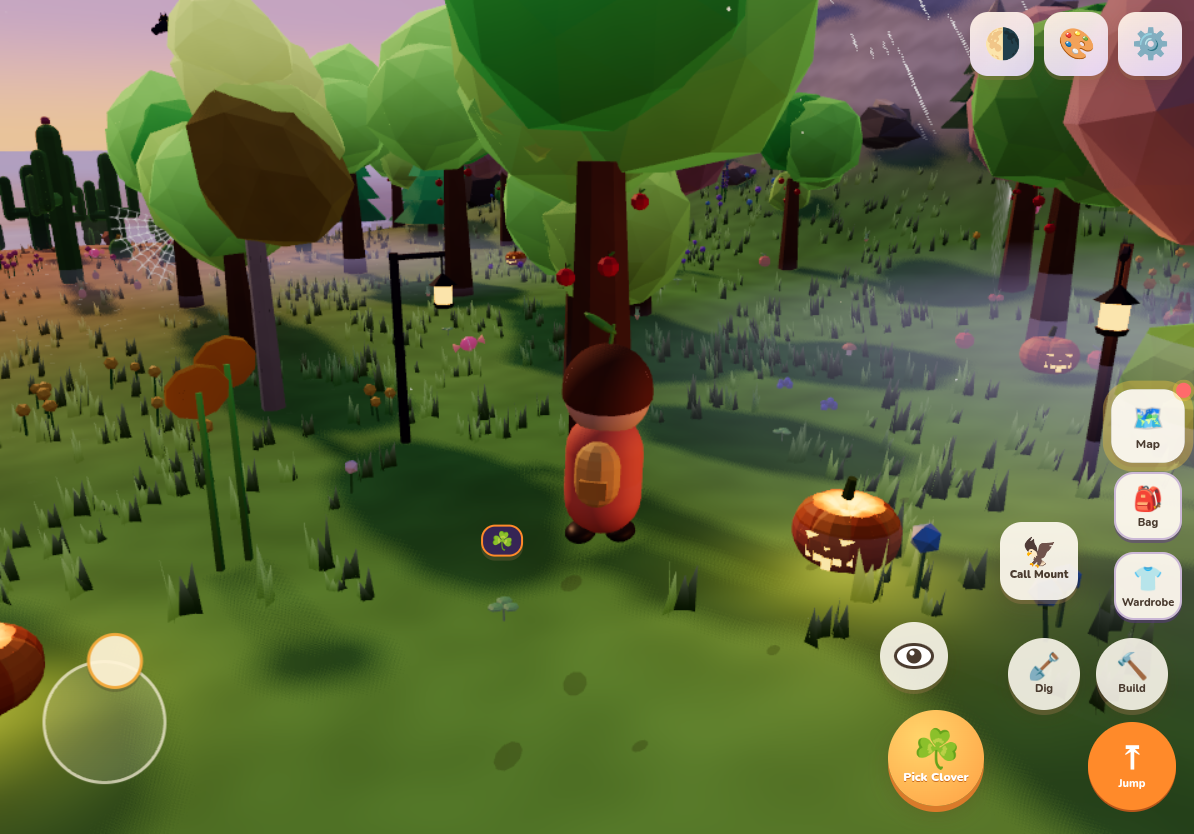
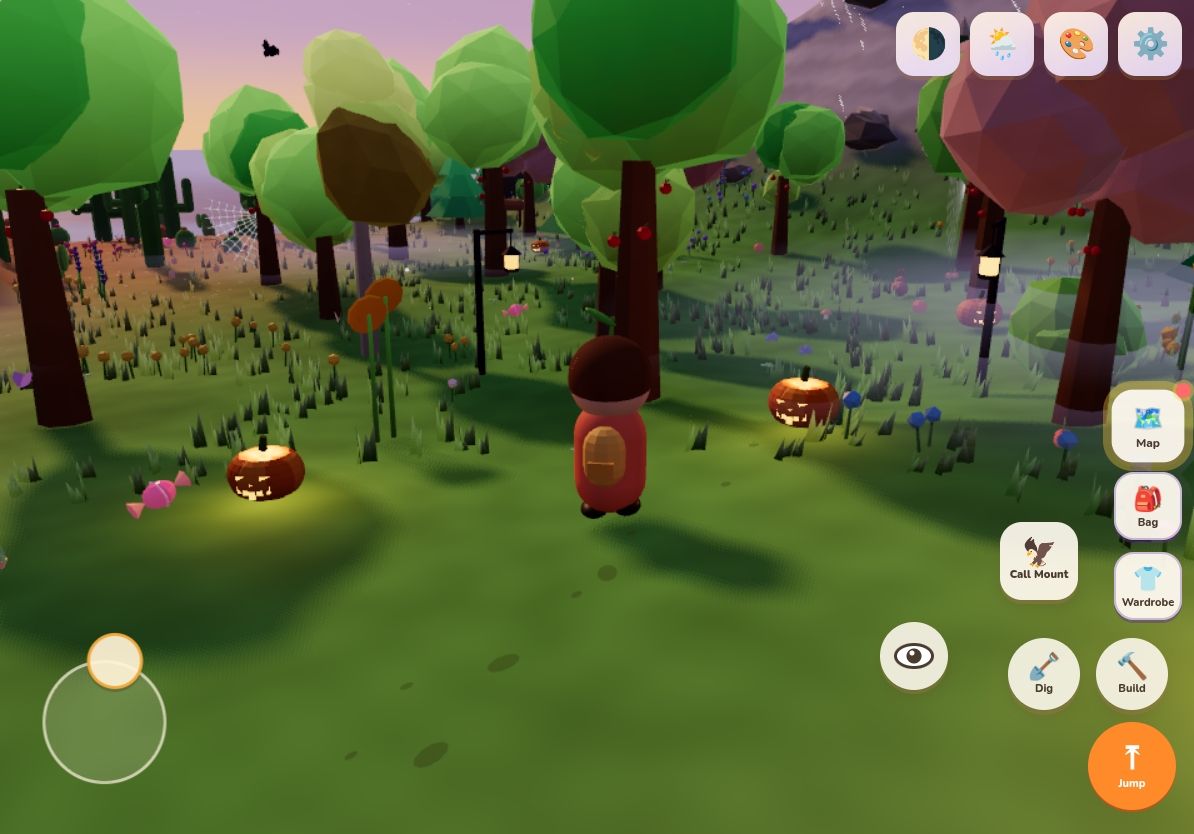
Order 50f: 🌦 weather dock button (Live/Clear/Rain/Snow/Rainbow, real-tap tested, button showers ease in 3x faster); tests/weather.mjs 21/21, iPad touch 24/24

diff --git a/src/world/Weather.ts b/src/world/Weather.ts
@@ -13,7 +13,7 @@ export class Weather {
   /** 0..1 eased strength of the current shower */
   amount = 0;
   frozen = false;
-  source: 'cycle' | 'url' = 'cycle';
+  source: 'cycle' | 'url' | 'button' = 'cycle';
   /** theme makes showers fall as snow (winter) */
   snowy = false;
   /** what the current/last shower falls as (kept while it clears, so snow fades out as snow) */
@@ -36,6 +36,16 @@ export class Weather {
   private syncFall() { if (this.kind !== 'clear') this.fall = this.kind === 'snow' || this.snowy ? 'snow' : 'rain'; }
   /** pin a kind (freeze) or let the cycle run again */
   set(kind: WeatherKind, freeze = true, snap = false) { if (this.kind !== 'clear' && kind === 'clear') this.cleared(); this.kind = kind; this.frozen = freeze; if (snap) this.amount = kind === 'clear' ? 0 : 1; if (!freeze) this.source = 'cycle'; this.syncFall(); }
+  /** Order 50f: 🌦 dock button. Pin clear/rain/snow/rainbow (eases in ~3x faster so a tap shows quickly), or 'live' to hand back to the cycle */
+  pin(mode: WeatherKind | 'rainbow' | 'live') {
+    if (mode === 'live') { this.frozen = false; this.source = 'cycle'; this.left = this.kind === 'clear' ? 60 + this.rnd() * 60 : 60; if (this.bowLeft === Infinity) this.bowLeft = 20; return; }
+    if (this.bowLeft === Infinity) this.bowLeft = 0;
+    if (mode === 'rainbow') { this.set('clear', true); this.bowLeft = Infinity; }
+    else this.set(mode, true);
+    this.source = 'button';
+  }
+  /** which button step matches the current state */
+  get mode(): WeatherKind | 'rainbow' | 'live' { return !this.frozen ? 'live' : this.bowLeft === Infinity ? 'rainbow' : this.kind; }
   update(dt: number) {
     if (!this.frozen) {
       this.left -= dt;
@@ -51,10 +61,10 @@ export class Weather {
     // the rainbow shows once the shower has mostly thinned, then fades before its window ends
     this.bowLeft -= dt;
     const bowT = this.bowLeft > 8 && this.kind === 'clear' && this.amount < 0.55 ? 1 : 0;
-    this.bowK += Math.sign(bowT - this.bowK) * Math.min(Math.abs(bowT - this.bowK), dt / 8);
+    this.bowK += Math.sign(bowT - this.bowK) * Math.min(Math.abs(bowT - this.bowK), dt / (this.source === 'button' ? 3 : 8));
     const target = this.kind === 'clear' ? 0 : 1;
     // ~12 s to build up, ~16 s to clear
-    const rate = target > this.amount ? 1 / 12 : 1 / 16;
+    const rate = (target > this.amount ? 1 / 12 : 1 / 16) * (this.source === 'button' ? 3 : 1);
     this.amount += Math.sign(target - this.amount) * Math.min(Math.abs(target - this.amount), rate * dt);
   }
   /** a rain (not snow) shower just started clearing: open the rainbow window */
@@ -63,5 +73,5 @@ export class Weather {
   get isSnow() { return this.fall === 'snow'; }
   get rain() { return this.isSnow ? 0 : this.amount; }
   get snow() { return this.isSnow ? this.amount : 0; }
-  get debug() { return { kind: this.kind, amount: +this.amount.toFixed(3), rain: +this.rain.toFixed(3), snow: +this.snow.toFixed(3), frozen: this.frozen, source: this.source, snowy: this.snowy, left: Math.round(this.left), bowK: +this.bowK.toFixed(3), bowLeft: Math.round(Math.min(this.bowLeft, 9999)) }; }
+  get debug() { return { kind: this.kind, amount: +this.amount.toFixed(3), rain: +this.rain.toFixed(3), snow: +this.snow.toFixed(3), mode: this.mode, frozen: this.frozen, source: this.source, snowy: this.snowy, left: Math.round(this.left), bowK: +this.bowK.toFixed(3), bowLeft: Math.round(Math.min(this.bowLeft, 9999)) }; }
 }

diff --git a/src/ui/Hud.ts b/src/ui/Hud.ts
@@ -6,6 +6,7 @@ import { BUILD_CATALOG, tabOf, type BuildTab } from '../build/catalog';
 import type { Quality } from '../render/Renderer';
 import type { TimeOfDay } from '../world/TimeOfDay';
 import type { AudioEngine } from '../audio/Audio';
+import type { Weather } from '../world/Weather';
 
 export class Hud {
   private fpsEl: HTMLElement;
@@ -118,6 +119,22 @@ export class Hud {
       if (s.id === 'live') time.resume(); else time.set(s.id, true);
       sync(); this.closePicker(); b.blur();
     });
+    sync();
+  }
+  /** Order 50f: 🌦 dock button: cycles Live weather → Clear → Rain → Snow → Rainbow → Live (session only; `?weather=` starts pinned) */
+  bindWeather(w: Weather) {
+    if (!this.dock) return;
+    const STEPS = [
+      { id: 'live', icon: '🌦', name: 'Live weather' }, { id: 'clear', icon: '🌤', name: 'Clear' },
+      { id: 'rain', icon: '🌧', name: 'Rain' }, { id: 'snow', icon: '🌨', name: 'Snow' }, { id: 'rainbow', icon: '🌈', name: 'Rainbow' },
+    ] as const;
+    const b = document.createElement('button');
+    b.className = 'dbtn weather-btn';
+    for (const ev of ['pointerdown', 'pointerup', 'touchstart', 'touchend', 'mousedown', 'mouseup'] as const) b.addEventListener(ev, (e) => e.stopPropagation());
+    this.dock.insertBefore(b, this.dock.firstChild);
+    let i = Math.max(0, STEPS.findIndex((s) => s.id === w.mode));
+    const sync = () => { const s = STEPS[i]; b.textContent = s.icon; b.title = `Weather: ${s.name}`; b.setAttribute('aria-label', `Weather: ${s.name}`); b.dataset.w = s.id; b.classList.toggle('on', s.id !== 'live'); };
+    b.addEventListener('click', (e) => { e.stopPropagation(); i = (i + 1) % STEPS.length; w.pin(STEPS[i].id); sync(); this.closePicker(); b.blur(); });
     sync();
   }
   closePicker() { this.picker?.classList.remove('open'); this.dock?.querySelector('.theme-btn')?.classList.remove('on'); }

diff --git a/src/ui/hud.css b/src/ui/hud.css
@@ -426,7 +426,7 @@ body.theme-halloween .mode, body.theme-halloween .biome-name { color: #6a3aa8; }
 .dbtn { width: 56px; height: 56px; border: 0; border-radius: 18px; font-size: 26px; line-height: 1; cursor: pointer; background: var(--panel, rgba(255,250,240,.88)); box-shadow: 0 4px 0 rgba(160,120,80,.3), 0 6px 18px rgba(80,50,20,.15); backdrop-filter: blur(6px); transition: transform .25s var(--ease, ease), background .2s; touch-action: manipulation; }
 .dbtn:active { transform: scale(.92); }
 .dbtn.gear.on { transform: rotate(90deg); background: var(--accent, #f2a93b); }
-.dbtn.time-btn.on { background: var(--accent, #f2a93b); }
+.dbtn.time-btn.on, .dbtn.weather-btn.on { background: var(--accent, #f2a93b); }
 .dbtn.theme-btn.on { background: var(--accent, #f2a93b); }
 body.touch .dbtn { width: 64px; height: 64px; font-size: 30px; }
 /* corner panels slide/fade away unless opened */

diff --git a/src/world/Rainbow.ts b/src/world/Rainbow.ts
@@ -17,7 +17,7 @@ export class Rainbow {
     // soft edges, thicker colour in the middle, base of the arc fades into the haze
     const edge = smoothstep(float(0), float(0.22), t).mul(smoothstep(float(1), float(0.72), t));
     const base = smoothstep(float(0.0), float(0.28), positionLocal.y);
-    mat.opacityNode = edge.mul(base).mul(this.strength).mul(0.42);
+    mat.opacityNode = edge.mul(base).mul(this.strength).mul(0.55);
     this.mesh = new THREE.Mesh(geo, mat);
     this.mesh.name = 'rainbow'; this.mesh.frustumCulled = false; this.mesh.visible = false; this.mesh.renderOrder = -1;
   }

diff --git a/src/core/Game.ts b/src/core/Game.ts
@@ -297,6 +297,7 @@ export class Game {
 
     applyThemeCss();
     this.hud.bindDock(() => !!this.play.save.data.panelsOpen, (o) => { this.play.save.data.panelsOpen = o; this.play.save.touch(); });
+    this.hud.bindWeather(this.weather);
     this.hud.bindTime(this.time);
     const syncBuild = () => {
       const b = this.build; if (!b) return;

diff --git a/BACKLOG.md b/BACKLOG.md
@@ -1,6 +1,6 @@
 # Cozy Island backlog (single source of truth)
 
-Updated: 2026-10-31 (CT), 10:40 AM. Live: https://cozy-island-be6.pages.dev (Cloudflare Pages, auto-built from `main`).
+Updated: 2026-11-01 (CT), 10:25 AM. Live: https://cozy-island-be6.pages.dev (Cloudflare Pages, auto-built from `main`).
 Owner: 3D Master (dev bot, daily session 9:57 AM CT, a floor not a cap).
 Rules (fleet Bot Rules v3.0, D1-D3): every open task has Status, ETA live date and Estimate (dev days). Update this file every session, commit and push. Notion is discontinued; do not read or write it. Old content: `/workspace/fleet/archive/notion/` (read-only).
 Empty backlog: tell The Boss with priority, then polish on the daily schedule. Walker's real-device iPad tests never block work.
@@ -11,7 +11,7 @@ Anything that needs Walker (decisions, approvals) goes to The Boss as a short no
 | Order | Task | Status | ETA live | Estimate (dev days) |
 |---|---|---|---|---|
 | 49 | Day/night cycle with stars; frog chorus at night (no longer tied to themes); lighthouse beam sweeps at night | DONE 2026-10-30 (4 days ahead of ETA) | 2026-11-03 | 2 |
-| 50 | Weather: gentle rain, winter snow, rainbows after rain, theme-aware | In progress: 50a-e live 2026-10-31; 50f (weather dock button + perf A/B) next | 2026-11-06 | 2 (1.5 left: 0.5) |
+| 50 | Weather: gentle rain, winter snow, rainbows after rain, theme-aware | In progress: 50a-f live; 50g (perf A/B rain vs clear) next | 2026-11-06 | 2 (0.25 left) |
 | 51 | Rowboat or sailboat for travelling between the islets | To do | 2026-11-10 | 2.5 |
 | 52 | Fishing, plus a collection journal (fish, creatures, treasures) with completion rewards | To do | 2026-11-16 | 3.5 |
 | 53 | Cottage interiors and decorating: furniture inside the house you build | To do | 2026-11-21 | 3.5 |
@@ -34,7 +34,8 @@ Next backlog picked by Walker 2026-10-29 10:54 AM CT (relayed by The Boss). The 
 - 50d DONE (2026-10-31): a rainbow after a rain shower clears in daylight (90 s window, fades in once the rain thins, fades out before the window ends). One additive arc mesh (one draw, hidden when off) on the anti-solar point (42 deg radius), kept above the horizon when the sun is high; never at night or underground; never after snow.
 - 50e DONE (2026-10-31): theme-aware look: Halloween gets a violet drizzle and a violet overcast; winter gets a bright soft snow sky; other themes use the plain grey-blue rain.
 - Tests: new tests/weather.mjs 19/19 (iPad viewport: pins, overcast, snow in winter, ripples, Halloween tint, rainbow by day/not at night/after a shower, rain beds + plinks, dry cave, the live cycle); iPad touch 24/24.
-- 50f TO DO: 🌦 weather dock button (Live/Clear/Rain/Snow, like the 🌗 time button) so a shower can be seen on demand; perf A/B (draw calls and frame time in rain vs clear on Low).
+- 50f DONE (2026-11-01): 🌦 weather dock button next to 🌗 (64 px on touch): each tap cycles Live weather → Clear → Rain → Snow → Rainbow → Live (session only). A tapped shower eases in about 3x faster so it shows within a few seconds; rainbow slightly stronger (opacity 0.55). tests/weather.mjs 21/21 (real taps), iPad touch 24/24.
+- 50g TO DO: perf A/B (draw calls and frame time in rain vs clear on Low); close Order 50.
 
 ### Order 49 detail (DONE 2026-10-30, 4 days ahead of the 2026-11-03 ETA)
 
@@ -68,6 +69,9 @@ Earlier small calls (default in place, confirm when convenient): purple Hallowee
   3. Pink petals: "Pink petals only on Blossom Isle". Shipped 2026-10-29: generated islets lose the petal-pink ground drifts, and the season's drifting petals hide within 30 m of a generated islet (main island and Blossom Isle unchanged). tests/islet-petals.mjs 30/30.
 
 ## Done (from git log)
+
+Nov 1
+- 50f: 🌦 weather dock button (Live/Clear/Rain/Snow/Rainbow)
 
 Oct 31
 - 50a-e: weather cycle, rain + winter snowfall, overcast sky, rain soundscape, water ripples, rainbow after rain, Halloween violet drizzle
